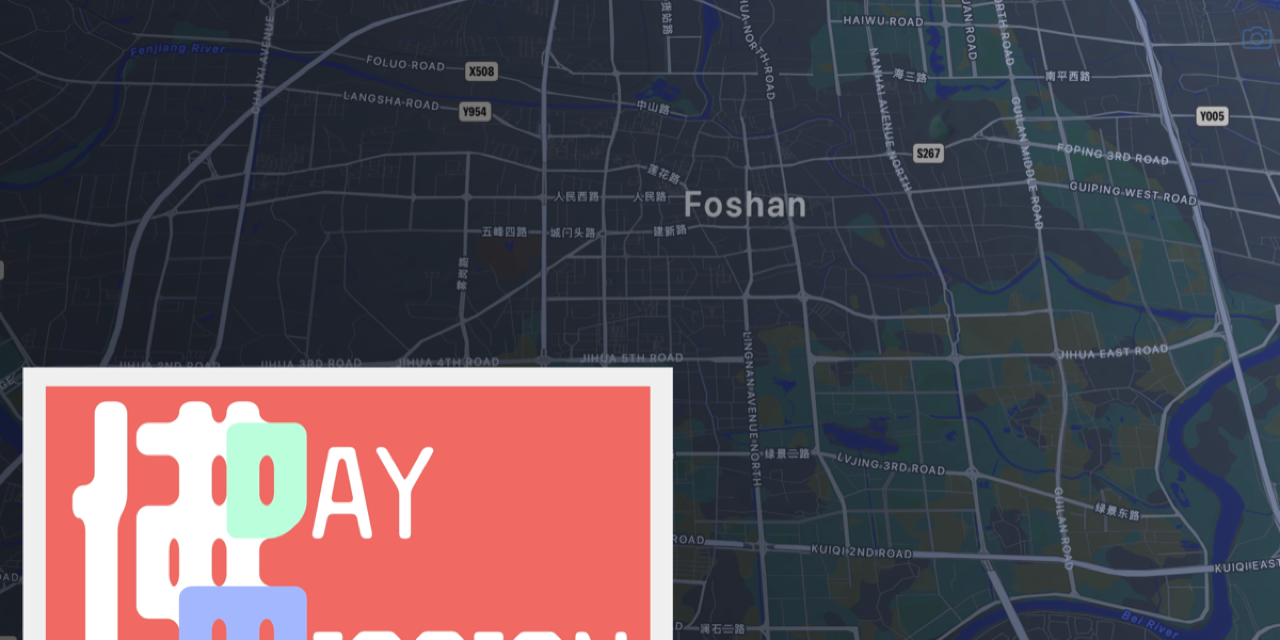
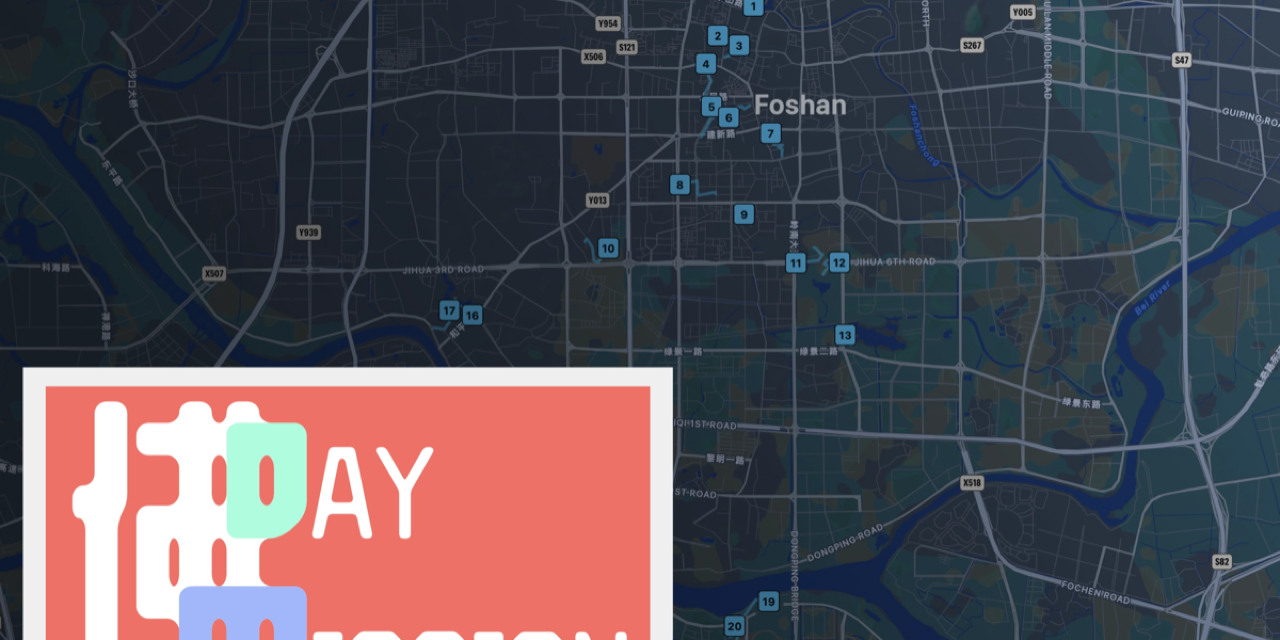
Update preview image (headimg) again
Regenerated public/og-image.png and .github/social-preview.png from the
new headimg.webp; bumped OG meta cache key to v=4 so social previews
fetch the new image.

diff --git a/public/index.html b/public/index.html
@@ -21,8 +21,8 @@
   <meta property="og:title" content="MD 2026: Foshan — Mission Day Map">
   <meta property="og:description" content="Interactive map for Ingress Mission Day 2026 in Foshan: 24 missions, 155 portals, walking routes, blog stories, and one-tap Apple Maps directions.">
   <meta property="og:url" content="https://fsmd.szres.org/">
-  <meta property="og:image" content="https://fsmd.szres.org/og-image.png?v=3">
-  <meta property="og:image:secure_url" content="https://fsmd.szres.org/og-image.png?v=3">
+  <meta property="og:image" content="https://fsmd.szres.org/og-image.png?v=4">
+  <meta property="og:image:secure_url" content="https://fsmd.szres.org/og-image.png?v=4">
   <meta property="og:image:width" content="1200">
   <meta property="og:image:height" content="850">
   <meta property="og:image:type" content="image/png">
@@ -35,7 +35,7 @@
   <meta name="twitter:card" content="summary_large_image">
   <meta name="twitter:title" content="MD 2026: Foshan — Mission Day Map">
   <meta name="twitter:description" content="Interactive map for Ingress Mission Day 2026 in Foshan: 24 missions, 155 portals, walking routes, blog stories, and one-tap Apple Maps directions.">
-  <meta name="twitter:image" content="https://fsmd.szres.org/og-image.png?v=3">
+  <meta name="twitter:image" content="https://fsmd.szres.org/og-image.png?v=4">
   <meta name="twitter:image:alt" content="FSMD logo over Apple Maps view of Foshan — Mission Day 2026">
 
   <link rel="stylesheet" href="/style.css">